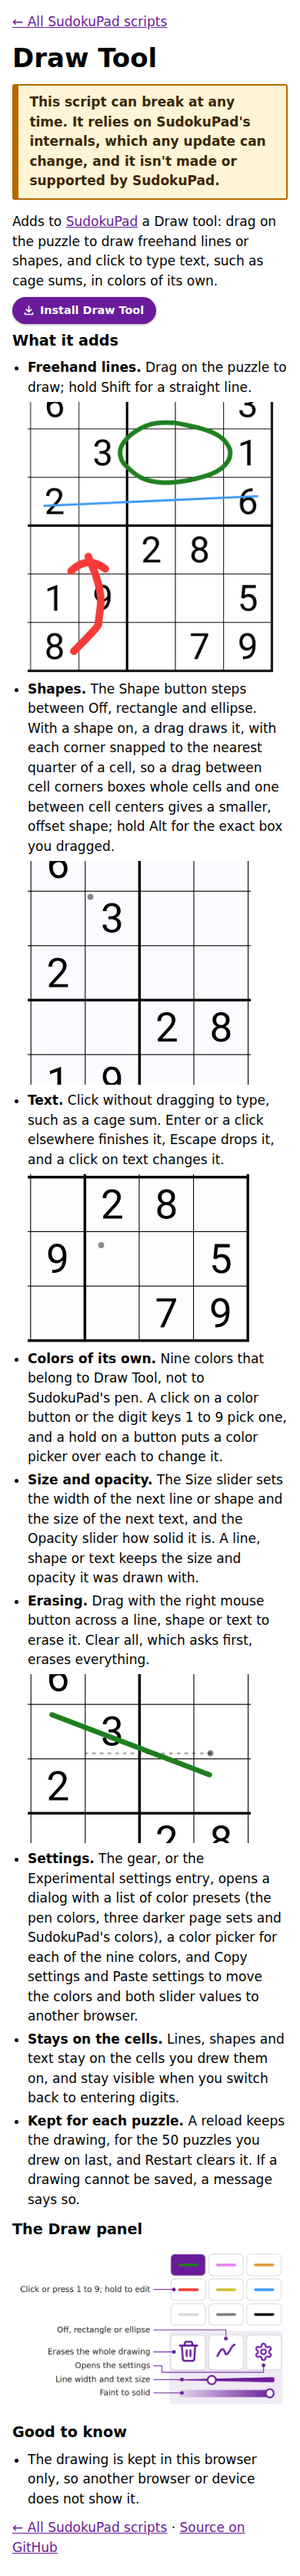
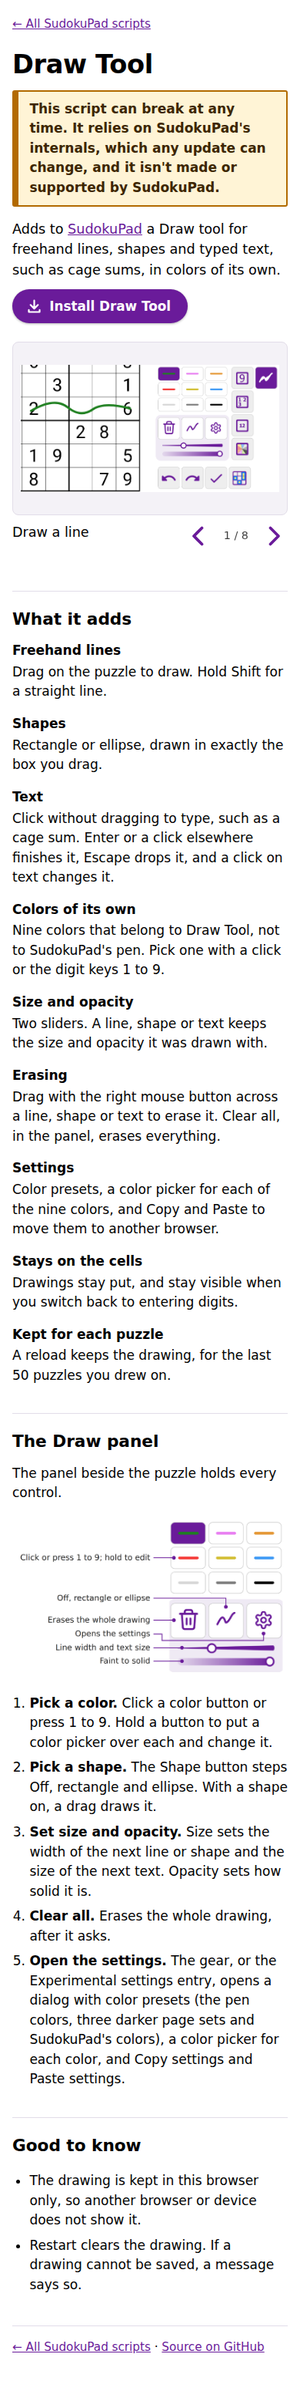
Draw Tool details page: new layout, shared slideshow in place of three GIFs
Closes #361

Changed region(s): [[0.0308, 0.0, 0.9538, 0.9951]]

diff --git a/site/draw-tool.html b/site/draw-tool.html
@@ -45,7 +45,7 @@
     <li><strong>Text</strong> <p>Click without dragging to type, such as a cage sum. Enter or a click elsewhere finishes it, Escape drops it, and a click on text changes it.</p></li>
     <li><strong>Colors of its own</strong> <p>Nine colors that belong to Draw Tool, not to SudokuPad's pen. Pick one with a click or the digit keys 1 to 9.</p></li>
     <li><strong>Size and opacity</strong> <p>Two sliders. A line, shape or text keeps the size and opacity it was drawn with.</p></li>
-    <li><strong>Erasing</strong> <p>Drag with the right or middle mouse button across a line, shape or text, or click one with the middle button.</p></li>
+    <li><strong>Erasing</strong> <p>Drag with the right mouse button across a line, shape or text to erase it. Clear all, in the panel, erases everything.</p></li>
     <li><strong>Settings</strong> <p>Color presets, a color picker for each of the nine colors, and Copy and Paste to move them to another browser.</p></li>
     <li><strong>Stays on the cells</strong> <p>Drawings stay put, and stay visible when you switch back to entering digits.</p></li>
     <li><strong>Kept for each puzzle</strong> <p>A reload keeps the drawing, for the last 50 puzzles you drew on.</p></li>

diff --git a/site.test.js b/site.test.js
@@ -510,7 +510,7 @@ test(`${DRAW} lists what the script adds as a grid of short items, one per featu
     'Text Click without dragging to type, such as a cage sum. Enter or a click elsewhere finishes it, Escape drops it, and a click on text changes it.',
     "Colors of its own Nine colors that belong to Draw Tool, not to SudokuPad's pen. Pick one with a click or the digit keys 1 to 9.",
     'Size and opacity Two sliders. A line, shape or text keeps the size and opacity it was drawn with.',
-    'Erasing Drag with the right or middle mouse button across a line, shape or text, or click one with the middle button.',
+    'Erasing Drag with the right mouse button across a line, shape or text to erase it. Clear all, in the panel, erases everything.',
     'Settings Color presets, a color picker for each of the nine colors, and Copy and Paste to move them to another browser.',
     'Stays on the cells Drawings stay put, and stay visible when you switch back to entering digits.',
     'Kept for each puzzle A reload keeps the drawing, for the last 50 puzzles you drew on.'
